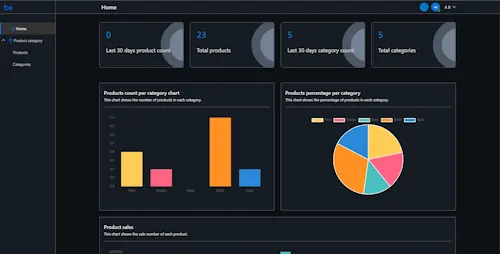
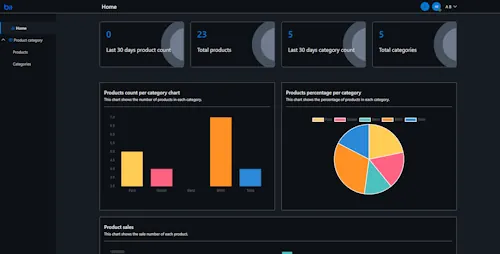
resolve missing appropriate navigations #4849

diff --git a/src/Templates/AdminPanel/Bit.AdminPanel/src/Client/Core/Shared/NavMenu.razor.scss b/src/Templates/AdminPanel/Bit.AdminPanel/src/Client/Core/Shared/NavMenu.razor.scss
@@ -23,8 +23,7 @@
     max-width: rem($NavMenuWidth);
     justify-content: space-between;
     padding-top: var(--bit-status-bar-height);
-    background-color: $bit-color-background-secondary;
-    border-right: 1px solid $bit-color-border-secondary;
+    background-color: $bit-color-background-primary;
 
     .bit-ios & {
         padding-top: env(safe-area-inset-top);
@@ -79,9 +78,5 @@
 ::deep {
     .bit-nav-menu {
         padding-top: rem(32px);
-    }
-
-    .selected-item-cnt {
-       background-color: $bit-color-action-active-background-secondary;
     }
 }

diff --git a/src/Templates/AdminPanel/Bit.AdminPanel/src/Client/Core/Shared/Header.razor.scss b/src/Templates/AdminPanel/Bit.AdminPanel/src/Client/Core/Shared/Header.razor.scss
@@ -12,7 +12,7 @@
     min-height: rem($HeaderHeight);
     width: calc(100% - $NavMenuWidth);
     padding-top: var(--bit-status-bar-height);
-    background-color: $bit-color-background-secondary;
+    background-color: $bit-color-background-primary;
     border-bottom: rem(1px) solid $bit-color-border-secondary;
 
     @include lt-lg {

diff --git a/src/Templates/AdminPanel/Bit.AdminPanel/src/Client/Core/Pages/Home/OverallStatsWidget.razor.scss b/src/Templates/AdminPanel/Bit.AdminPanel/src/Client/Core/Pages/Home/OverallStatsWidget.razor.scss
@@ -36,7 +36,7 @@
     background-size: rem(84px) 100%;
     background-position: center right;
     background-image: url('images/stat-card-bg.svg');
-    background-color: $bit-color-background-secondary;
+    background-color: $bit-color-background-primary;
     border: rem(1px) solid $bit-color-border-secondary;
 
     @include sm {

diff --git a/src/Templates/BlazorDual/Bit.BlazorDual/src/BlazorDual.Web/Pages/SignUpPage.razor.scss b/src/Templates/BlazorDual/Bit.BlazorDual/src/BlazorDual.Web/Pages/SignUpPage.razor.scss
@@ -21,15 +21,9 @@
 
 .form-description {
     font-weight: 600;
-    height: rem(48px);
-    font-size: rem(16px);
+    line-height: 1.5;
+    font-size: rem(14px);
     max-width: rem(432px);
-    line-height: rem(24px);
-
-    @include lt-xl {
-        font-size: rem(14px);
-        line-height: rem(20px);
-    }
 }
 
 ::deep {

diff --git a/src/Templates/TodoTemplate/Bit.TodoTemplate/src/Client/Core/Pages/SignUpPage.razor.scss b/src/Templates/TodoTemplate/Bit.TodoTemplate/src/Client/Core/Pages/SignUpPage.razor.scss
@@ -21,15 +21,9 @@
 
 .form-description {
     font-weight: 600;
-    font-size: rem(16px);
-    line-height: rem(24px);
+    line-height: 1.5;
+    font-size: rem(14px);
     max-width: rem(432px);
-    height: rem(48px);
-
-    @include lt-xl {
-        font-size: rem(14px);
-        line-height: rem(20px);
-    }
 }
 
 ::deep {

diff --git a/src/Templates/AdminPanel/Bit.AdminPanel/src/Client/Core/Pages/Home/ProductsCountPerCategotyWidget.razor.scss b/src/Templates/AdminPanel/Bit.AdminPanel/src/Client/Core/Pages/Home/ProductsCountPerCategotyWidget.razor.scss
@@ -12,7 +12,7 @@
     margin-bottom: rem(24px);
     justify-content: flex-start;
     padding: rem(24px) rem(16px) rem(58px);
-    background-color: $bit-color-background-secondary;
+    background-color: $bit-color-background-primary;
     border: rem(1px) solid $bit-color-border-secondary;
 
     @include md {

diff --git a/src/Templates/AdminPanel/Bit.AdminPanel/src/Client/Core/Pages/Home/ProductsPercentageWidget.razor.scss b/src/Templates/AdminPanel/Bit.AdminPanel/src/Client/Core/Pages/Home/ProductsPercentageWidget.razor.scss
@@ -12,7 +12,7 @@
     margin-bottom: rem(24px);
     justify-content: flex-start;
     padding: rem(24px) rem(16px) rem(58px);
-    background-color: $bit-color-background-secondary;
+    background-color: $bit-color-background-primary;
     border: rem(1px) solid $bit-color-border-secondary;
 
     @include md {

diff --git a/src/Templates/AdminPanel/Bit.AdminPanel/src/Client/Core/Pages/Home/ProductsSalesWidget.razor.scss b/src/Templates/AdminPanel/Bit.AdminPanel/src/Client/Core/Pages/Home/ProductsSalesWidget.razor.scss
@@ -12,7 +12,7 @@
     margin-bottom: rem(24px);
     justify-content: flex-start;
     padding: rem(24px) rem(16px) rem(58px);
-    background-color: $bit-color-background-secondary;
+    background-color: $bit-color-background-primary;
     border: rem(1px) solid $bit-color-border-secondary;
 
     @include md {

diff --git a/src/Templates/AdminPanel/Bit.AdminPanel/src/Client/Core/Shared/MainLayout.razor.scss b/src/Templates/AdminPanel/Bit.AdminPanel/src/Client/Core/Shared/MainLayout.razor.scss
@@ -12,7 +12,7 @@
     justify-content: flex-start;
     padding-top: rem($HeaderHeight);
     padding-left: rem($NavMenuWidth);
-    background-color: $bit-color-background-primary;
+    background-color: $bit-color-background-secondary;
 
     @include lt-lg {
         padding-left: 0;

diff --git a/src/Templates/AdminPanel/Bit.AdminPanel/src/Client/Core/Pages/Categories/CategoriesPage.razor.scss b/src/Templates/AdminPanel/Bit.AdminPanel/src/Client/Core/Pages/Categories/CategoriesPage.razor.scss
@@ -66,7 +66,7 @@
 
 ::deep thead {
     height: rem(43px);
-    background-color: $bit-color-background-secondary;
+    background-color: $bit-color-background-primary;
 }
 
 ::deep tr {

diff --git a/src/Templates/AdminPanel/Bit.AdminPanel/src/Client/Core/Pages/Products/ProductsPage.razor.scss b/src/Templates/AdminPanel/Bit.AdminPanel/src/Client/Core/Pages/Products/ProductsPage.razor.scss
@@ -66,7 +66,7 @@
 
 ::deep thead {
     height: rem(43px);
-    background-color: $bit-color-background-secondary;
+    background-color: $bit-color-background-primary;
 }
 
 ::deep tr {

diff --git a/src/Templates/AdminPanel/Bit.AdminPanel/src/Shared/Resources/AppStrings.Designer.cs b/src/Templates/AdminPanel/Bit.AdminPanel/src/Shared/Resources/AppStrings.Designer.cs
@@ -142,7 +142,7 @@ namespace AdminPanel.Shared.Resources {
         }
         
         /// <summary>
-        ///   Looks up a localized string similar to AdminPanel.
+        ///   Looks up a localized string similar to AdminPanel.
         /// </summary>
         public static string AppTitle {
             get {
@@ -917,7 +917,7 @@ namespace AdminPanel.Shared.Resources {
         }
         
         /// <summary>
-        ///   Looks up a localized string similar to Create your multi-mode (WASM, Server, Hybrid, pre-rendering) Blazor AdminPanel easily in the shortest time ever!.
+        ///   Looks up a localized string similar to Create your multi-mode (WASM, Server, Hybrid, pre-rendering) Blazor AdminPanel easily in the shortest time ever!.
         /// </summary>
         public static string HomeMessage {
             get {
@@ -926,7 +926,7 @@ namespace AdminPanel.Shared.Resources {
         }
         
         /// <summary>
-        ///   Looks up a localized string similar to bit AdminPanel.
+        ///   Looks up a localized string similar to bit AdminPanel.
         /// </summary>
         public static string HomeTitle {
             get {
@@ -1736,7 +1736,7 @@ namespace AdminPanel.Shared.Resources {
         }
         
         /// <summary>
-        ///   Looks up a localized string similar to AdminPanel is a project template that provides common features such as Sign-up &amp; Sign-in. This template is powered by bit BlazorUI components..
+        ///   Looks up a localized string similar to AdminPanel is a project template that provides common features such as Sign-up &amp; Sign-in. This template is powered by bit BlazorUI components..
         /// </summary>
         public static string StartupPageDescription {
             get {
@@ -1745,7 +1745,7 @@ namespace AdminPanel.Shared.Resources {
         }
         
         /// <summary>
-        ///   Looks up a localized string similar to bit AdminPanel.
+        ///   Looks up a localized string similar to bit AdminPanel.
         /// </summary>
         public static string StartupPageTitle {
             get {
